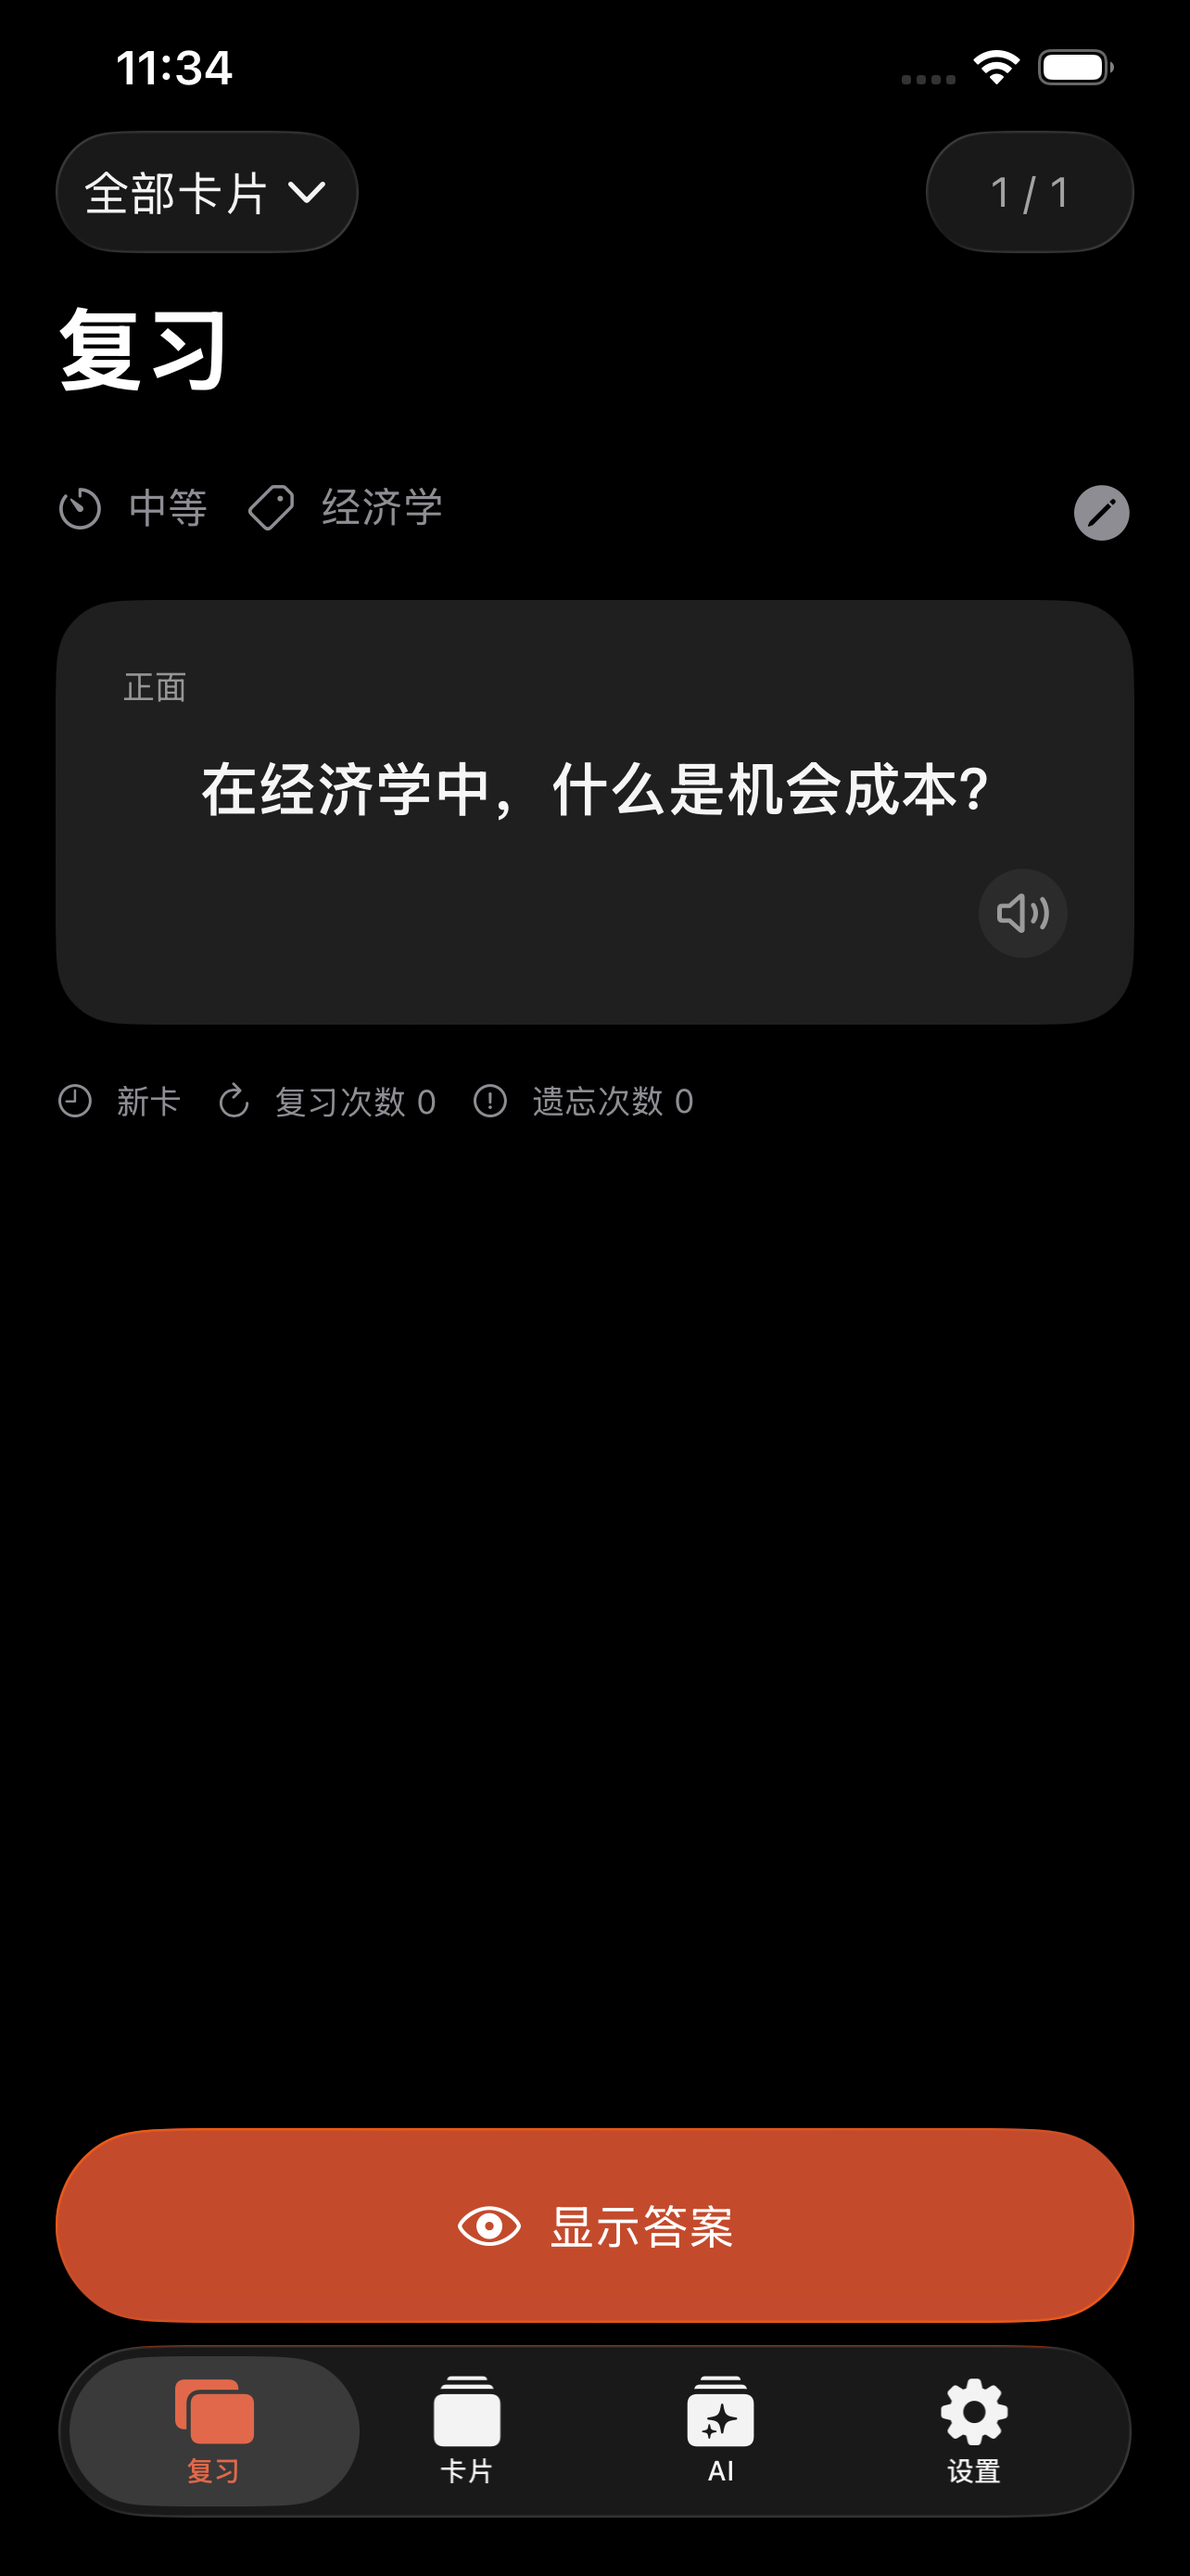
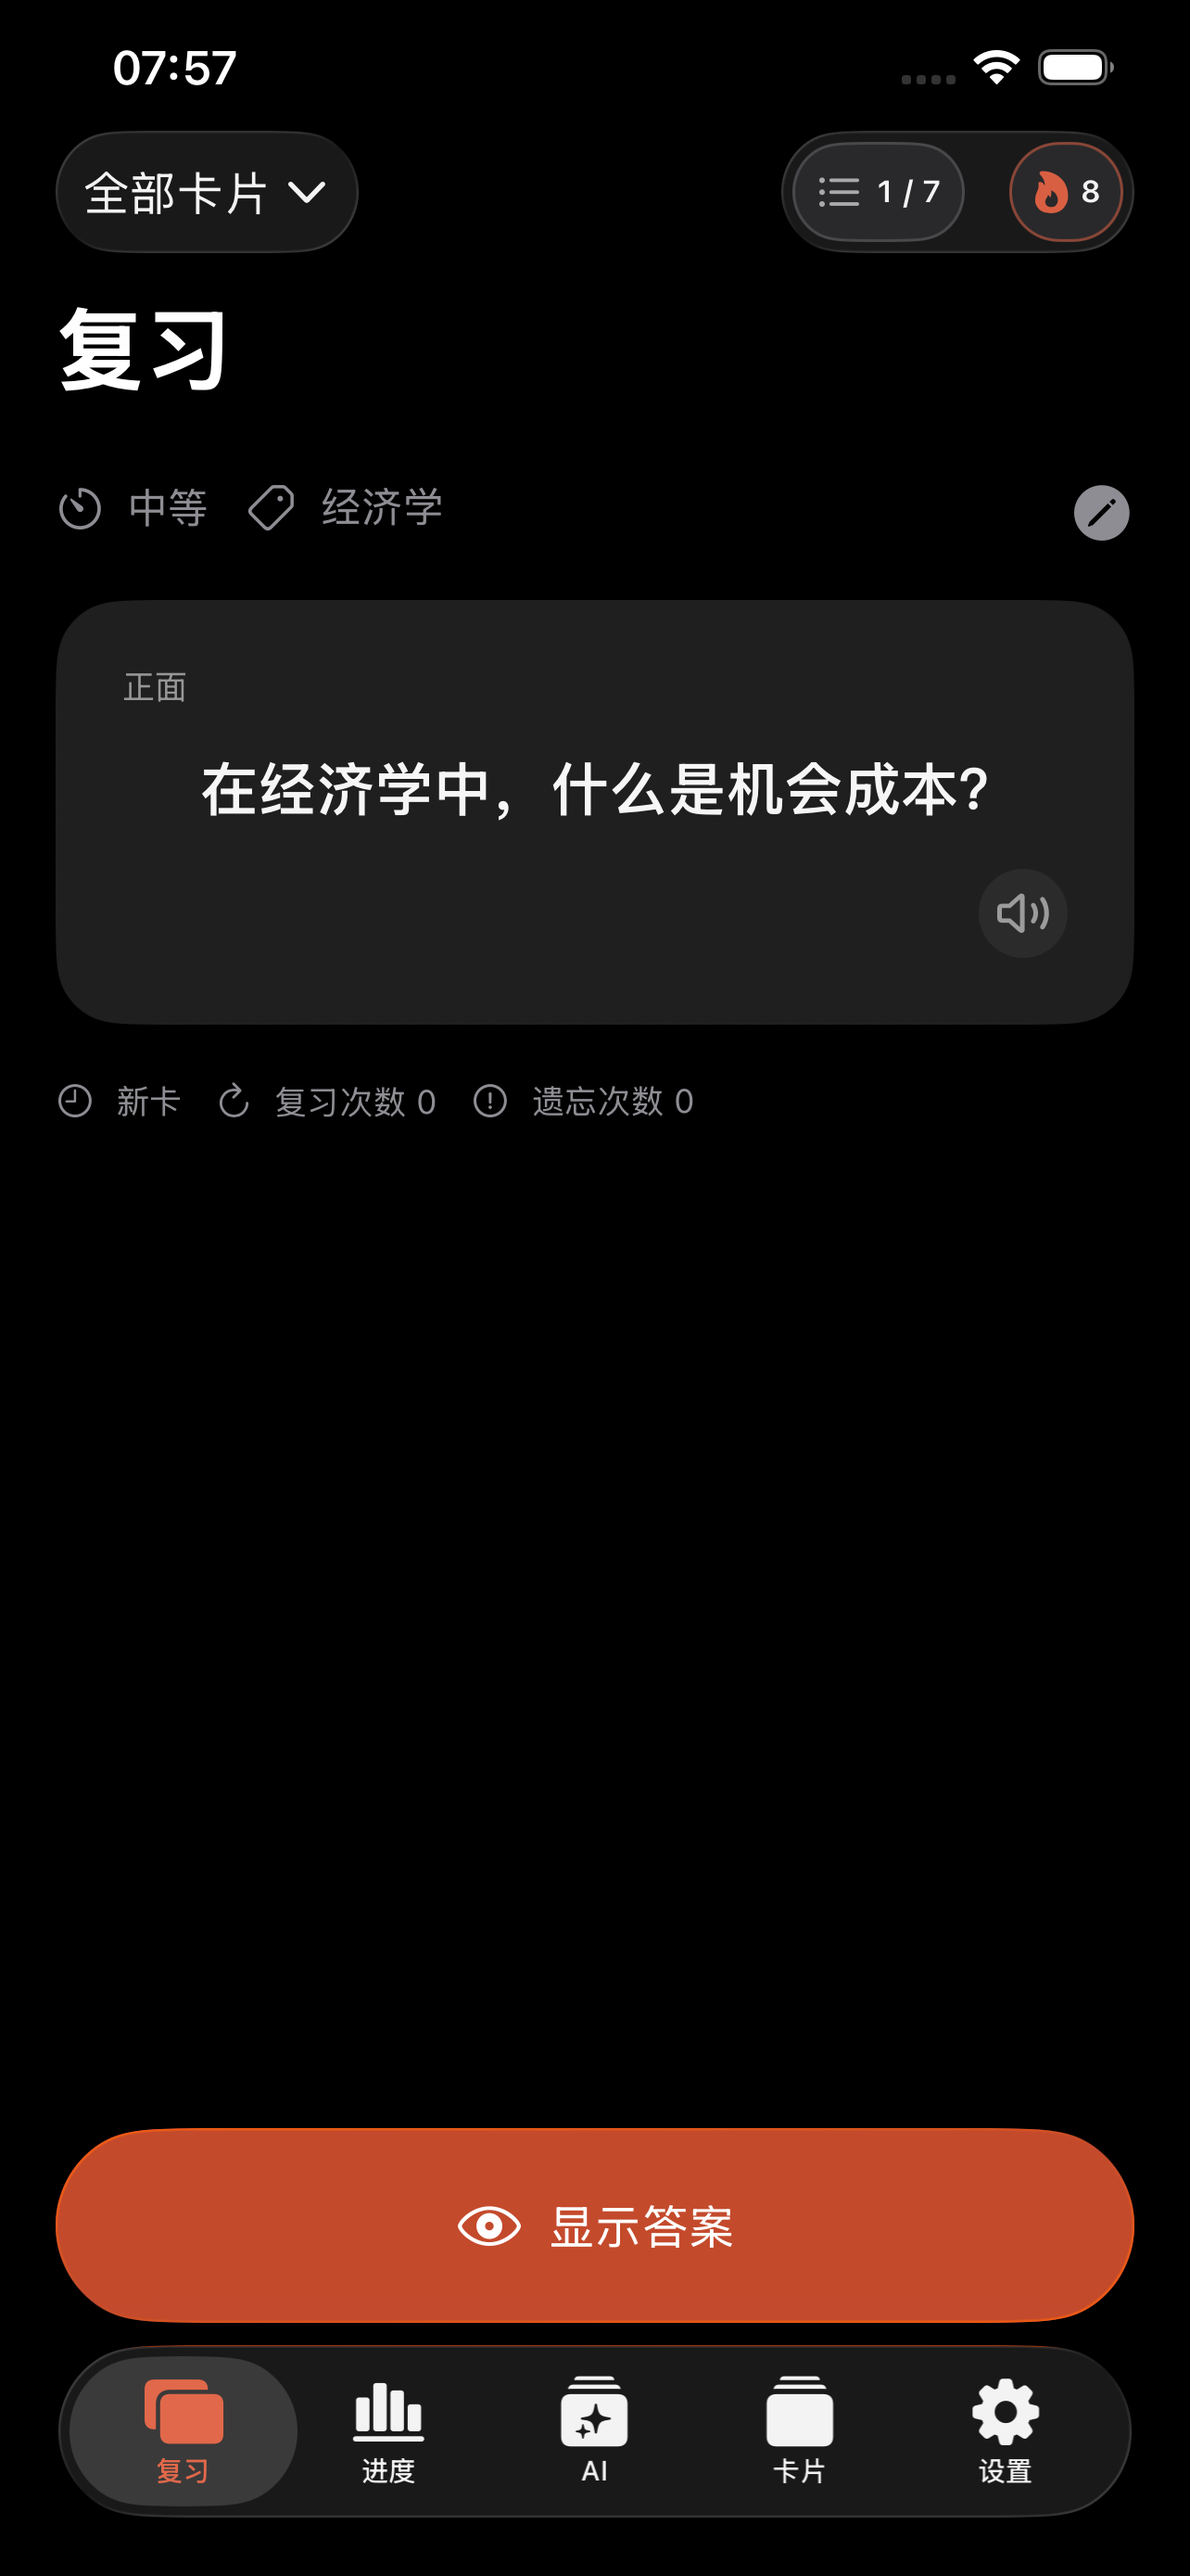
Add new marketing screenshots and update test case for AI handoff card

diff --git a/apps/ios/Flashcards/FlashcardsUITests/MarketingScreenshots/MarketingManualScreenshotTestCase.swift b/apps/ios/Flashcards/FlashcardsUITests/MarketingScreenshots/MarketingManualScreenshotTestCase.swift
@@ -55,6 +55,8 @@ private let marketingExpectedReviewProgressBadgeValue: String = [
     "hasReviewedToday=true"
 ].joined(separator: ";")
 
+private let marketingAiHandoffFirstCardValue: String = "first_card"
+
 private enum MarketingScreenshotRuntimeConfigurationStorage {
     static let filePath: String = "/tmp/flashcards-open-source-app-ios-marketing-screenshot-config.json"
 }
@@ -221,21 +223,10 @@ class MarketingManualScreenshotTestCase: LiveSmokeTestCase {
 
     @MainActor
     func openOpportunityCostReviewCardAiDraft() throws {
-        try self.tapTabBarItem(selectedTab: .review, timeout: LiveSmokeConfiguration.shortUiTimeoutSeconds)
-        try self.assertScreenVisible(screen: .review, timeout: LiveSmokeConfiguration.longUiTimeoutSeconds)
-
-        let reviewAiButton = self.app.buttons[LiveSmokeIdentifier.reviewAiButton]
-        if self.waitForOptionalElement(
-            reviewAiButton,
-            identifier: LiveSmokeIdentifier.reviewAiButton,
-            timeout: LiveSmokeConfiguration.shortUiTimeoutSeconds
-        ) == false {
-            try self.revealOpportunityCostReviewAnswer()
-        }
-
-        try self.tapButton(
-            identifier: LiveSmokeIdentifier.reviewAiButton,
-            timeout: LiveSmokeConfiguration.longUiTimeoutSeconds
+        try self.launchMarketingApplication(
+            launchScenario: .marketingScreenshots,
+            selectedTab: .ai,
+            aiHandoffCard: marketingAiHandoffFirstCardValue
         )
         try self.assertScreenVisible(screen: .ai, timeout: LiveSmokeConfiguration.longUiTimeoutSeconds)
     }
